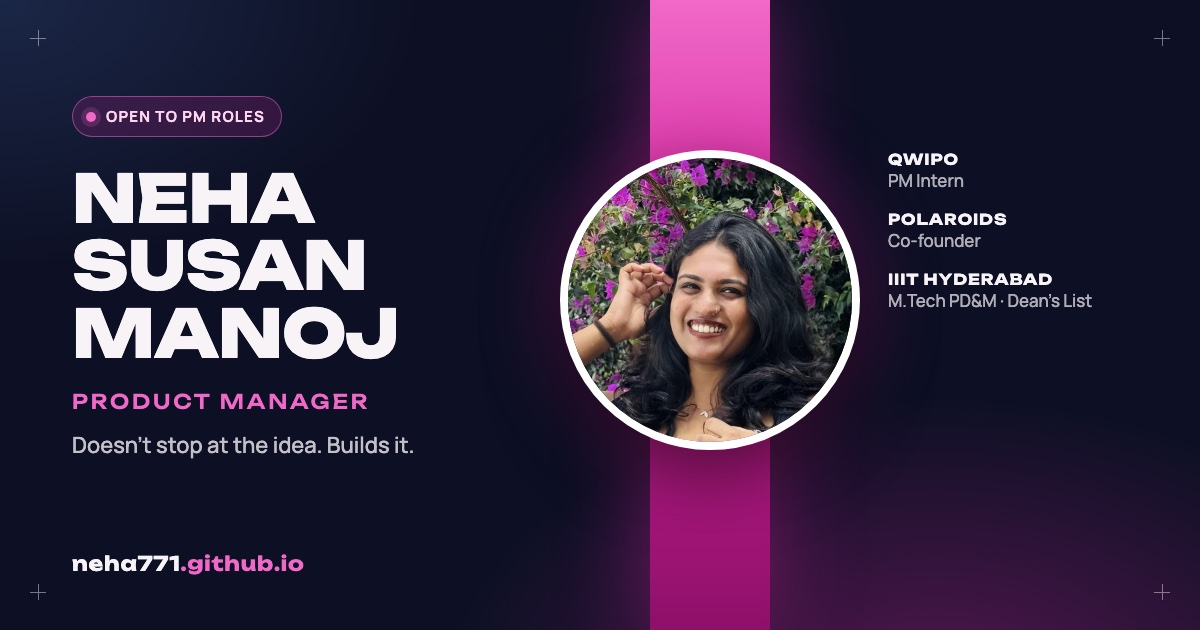
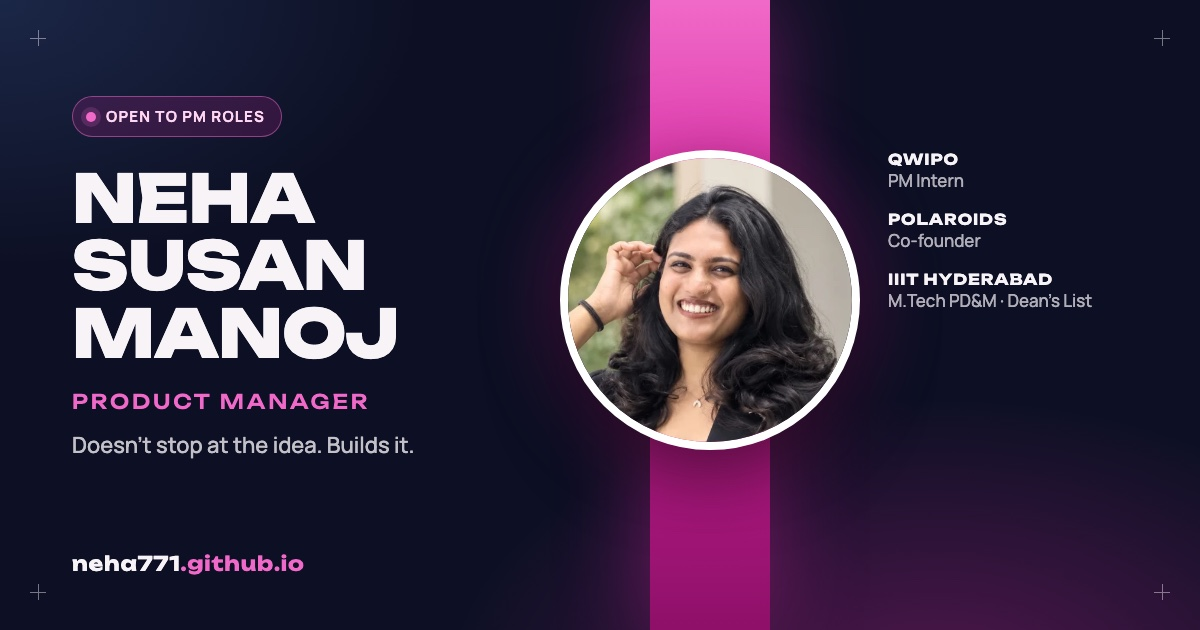
Update profile photo and add Early Stage Funding Strategies project
- New photo on the card wheel, summary avatar and link-preview image
  (neha-bougainvillea.webp -> neha-portrait.webp, new face crop)
- Early Stage Funding Strategies added to Product & Research projects
  (no link or image yet), with an optional headline word for image-less cards

Changed region(s): [[0.4625, 0.2413, 0.7092, 0.7238]]

diff --git a/src/data/folders.ts b/src/data/folders.ts
@@ -39,6 +39,8 @@ export interface FolderFile {
   link?: string;
   story?: string;
   img?: string;
+  /** Big headline word on image-less cards; defaults to the title's first word. */
+  word?: string;
 }
 
 export interface FolderDef {
@@ -95,6 +97,7 @@ export const FOLDERS: Record<FolderKey, FolderDef> = {
     desc: 'Case studies, research projects & 0→1 builds',
     files: [
       { ico: '🎁', title: 'GiftSense: AI Gift Recommender', desc: 'AI for PMs capstone. Built with Claude Code, using the Gemini API for recommendations and Cloudflare AI for images, with system prompts and guardrails. Ran LLM evaluations on a 50-case golden dataset (v1 gift-fit 72.5%) and fixed 12 issues it found; v2 matched the expected action on 46 of 50 cases, with all 45 AI answers passing every hard check.', tags: ['AI', 'LLM Evals', 'Gemini', 'Claude Code'], link: 'https://giftsense-bzjm.vercel.app', img: imgGiftsense },
+      { ico: '💸', title: 'Early Stage Funding Strategies', word: 'Funding', desc: 'Academic project on funding strategies for early-stage startups.', tags: ['Startups', 'Funding', 'Strategy'] },
       { ico: '🚆', title: 'Connecting Train Journeys (IRCTC)', desc: 'Sized an underserved traveller problem with a 94-response survey & live KPI dashboard (19.1% had missed a connection, 63.2% would pay). Validated demand with a fake-door test: 159 sessions, 22 of 23 price picks chose a paid tier.', tags: ['Market Research', 'Fake-Door Test', 'Validation'], link: 'https://mrv-tau.vercel.app/', img: imgIrctc },
       { ico: '🛣', title: 'Designing for Indian Roads', desc: 'HCI study on usability challenges of Indian road conditions → interaction principles & interface recommendations.', tags: ['HCI', 'Research', 'Interaction'], link: 'https://drive.google.com/file/d/13301HTq8iZ64Zr3dPrxyB67qYBWju-Eg/view', img: imgHci },
       { ico: '🤖', title: 'Emotional Sharing with AI Tools', desc: 'Mixed-methods study on how adults 18–40 emotionally engage with AI conversational tools, turned into design recommendations.', tags: ['User Research', 'Card Sorting'], link: 'https://drive.google.com/file/d/19n12xb1Io1uN-WviCQYlIfzH3ArvzFib/view', img: imgUrm },

diff --git a/src/components/Deck.tsx b/src/components/Deck.tsx
@@ -105,7 +105,7 @@ function DeckCard({ file, i, focused = false }: { file: FolderFile; i: number; f
   // a hand-dealt look: small alternating rotations that straighten on hover
   const rot = ((i % 2 ? 1 : -1) * (1.2 + (i % 3) * 0.6)).toFixed(1);
   const style = { '--i': Math.min(i, 10), '--r': `${rot}deg` } as CSSProperties;
-  const firstWord = file.title.split(/[\s,:]/)[0];
+  const firstWord = file.word ?? file.title.split(/[\s,:]/)[0];
 
   return (
     <div className={`dcard${focused ? ' focused' : ''}`} style={style}>

diff --git a/src/components/Glance.tsx b/src/components/Glance.tsx
@@ -130,7 +130,7 @@ function ProjectGroup({ label, items, onPick }: { label: string; items: FolderFi
               {p.img ? (
                 <img src={p.img} alt="" loading="lazy" draggable={false} />
               ) : (
-                <span className="g-proj-word">{p.title.split(/[\s,:]/)[0]}</span>
+                <span className="g-proj-word">{p.word ?? p.title.split(/[\s,:]/)[0]}</span>
               )}
             </span>
             <span className="g-proj-title">{p.title}</span>

diff --git a/src/data/sections.ts b/src/data/sections.ts
@@ -1,5 +1,5 @@
 import { FOLDERS, type FolderFile } from './folders';
-import photo from '../assets/neha-bougainvillea.webp';
+import photo from '../assets/neha-portrait.webp';
 import imgTinkerhub from '../assets/images/tinkerhub.webp';
 import imgIrctc from '../assets/images/irctc.webp';
 import imgCaseathon from '../assets/images/caseathon.webp';
